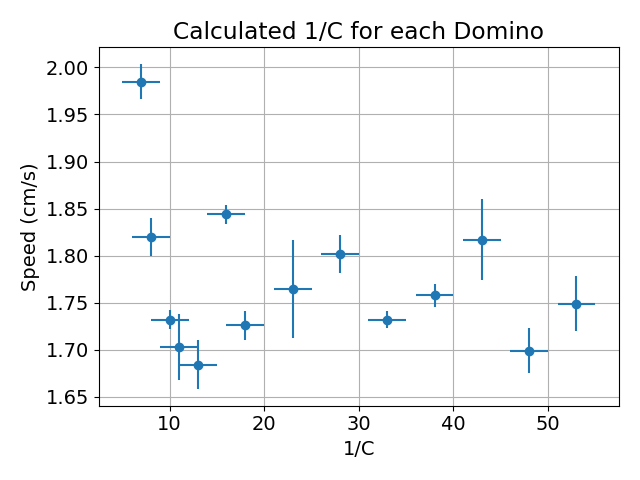
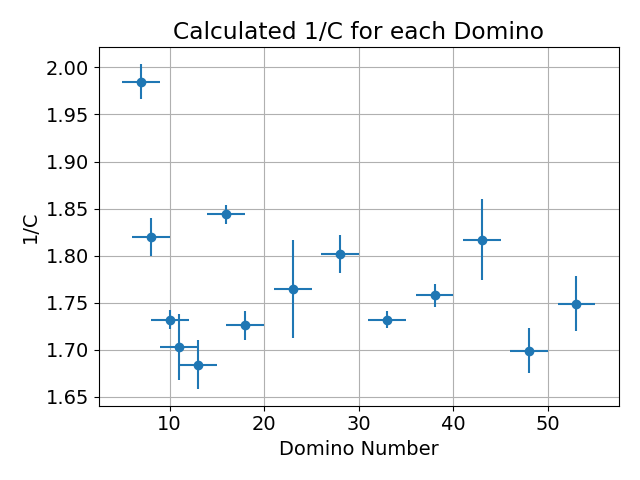
Updated plots

Changed region(s): [[0.4375, 0.9062, 0.6875, 0.9688], [0.0312, 0.3438, 0.0625, 0.625]]

diff --git a/advlab/dominos/plotting.py b/advlab/dominos/plotting.py
@@ -64,8 +64,8 @@ acceleration_c = {
     "y": acceleration_data["1/C"],
     "yerr": acceleration_data["1/C_unc"],
     "title": "Calculated 1/C for each Domino",
-    "xlabel": "1/C",
-    "ylabel": "Speed (cm/s)",
+    "xlabel": "Domino Number",
+    "ylabel": "1/C",
 }
 
 nopaper_speed = {
@@ -84,8 +84,8 @@ nopaper_c = {
     "y": nopaper_data["1/C"],
     "yerr": nopaper_data["1/C_unc"],
     "title": "Calculated 1/C for each Spacing (w/o Sandpaper)",
-    "xlabel": "1/C",
-    "ylabel": "Speed (cm/s)",
+    "xlabel": "Spacing (Multiples of Domino Thickness)",
+    "ylabel": "1/C",
 }
 
 paper_speed = {
@@ -104,8 +104,8 @@ paper_c = {
     "y": paper_data["1/C"],
     "yerr": paper_data["1/C_unc"],
     "title": "Calculated 1/C for each Spacing (w/Sandpaper)",
-    "xlabel": "1/C",
-    "ylabel": "Speed (cm/s)",
+    "xlabel": "Spacing (Multiples of Domino Thickness)",
+    "ylabel": "1/C",
 }
 
 def plot_data(plot_params):
